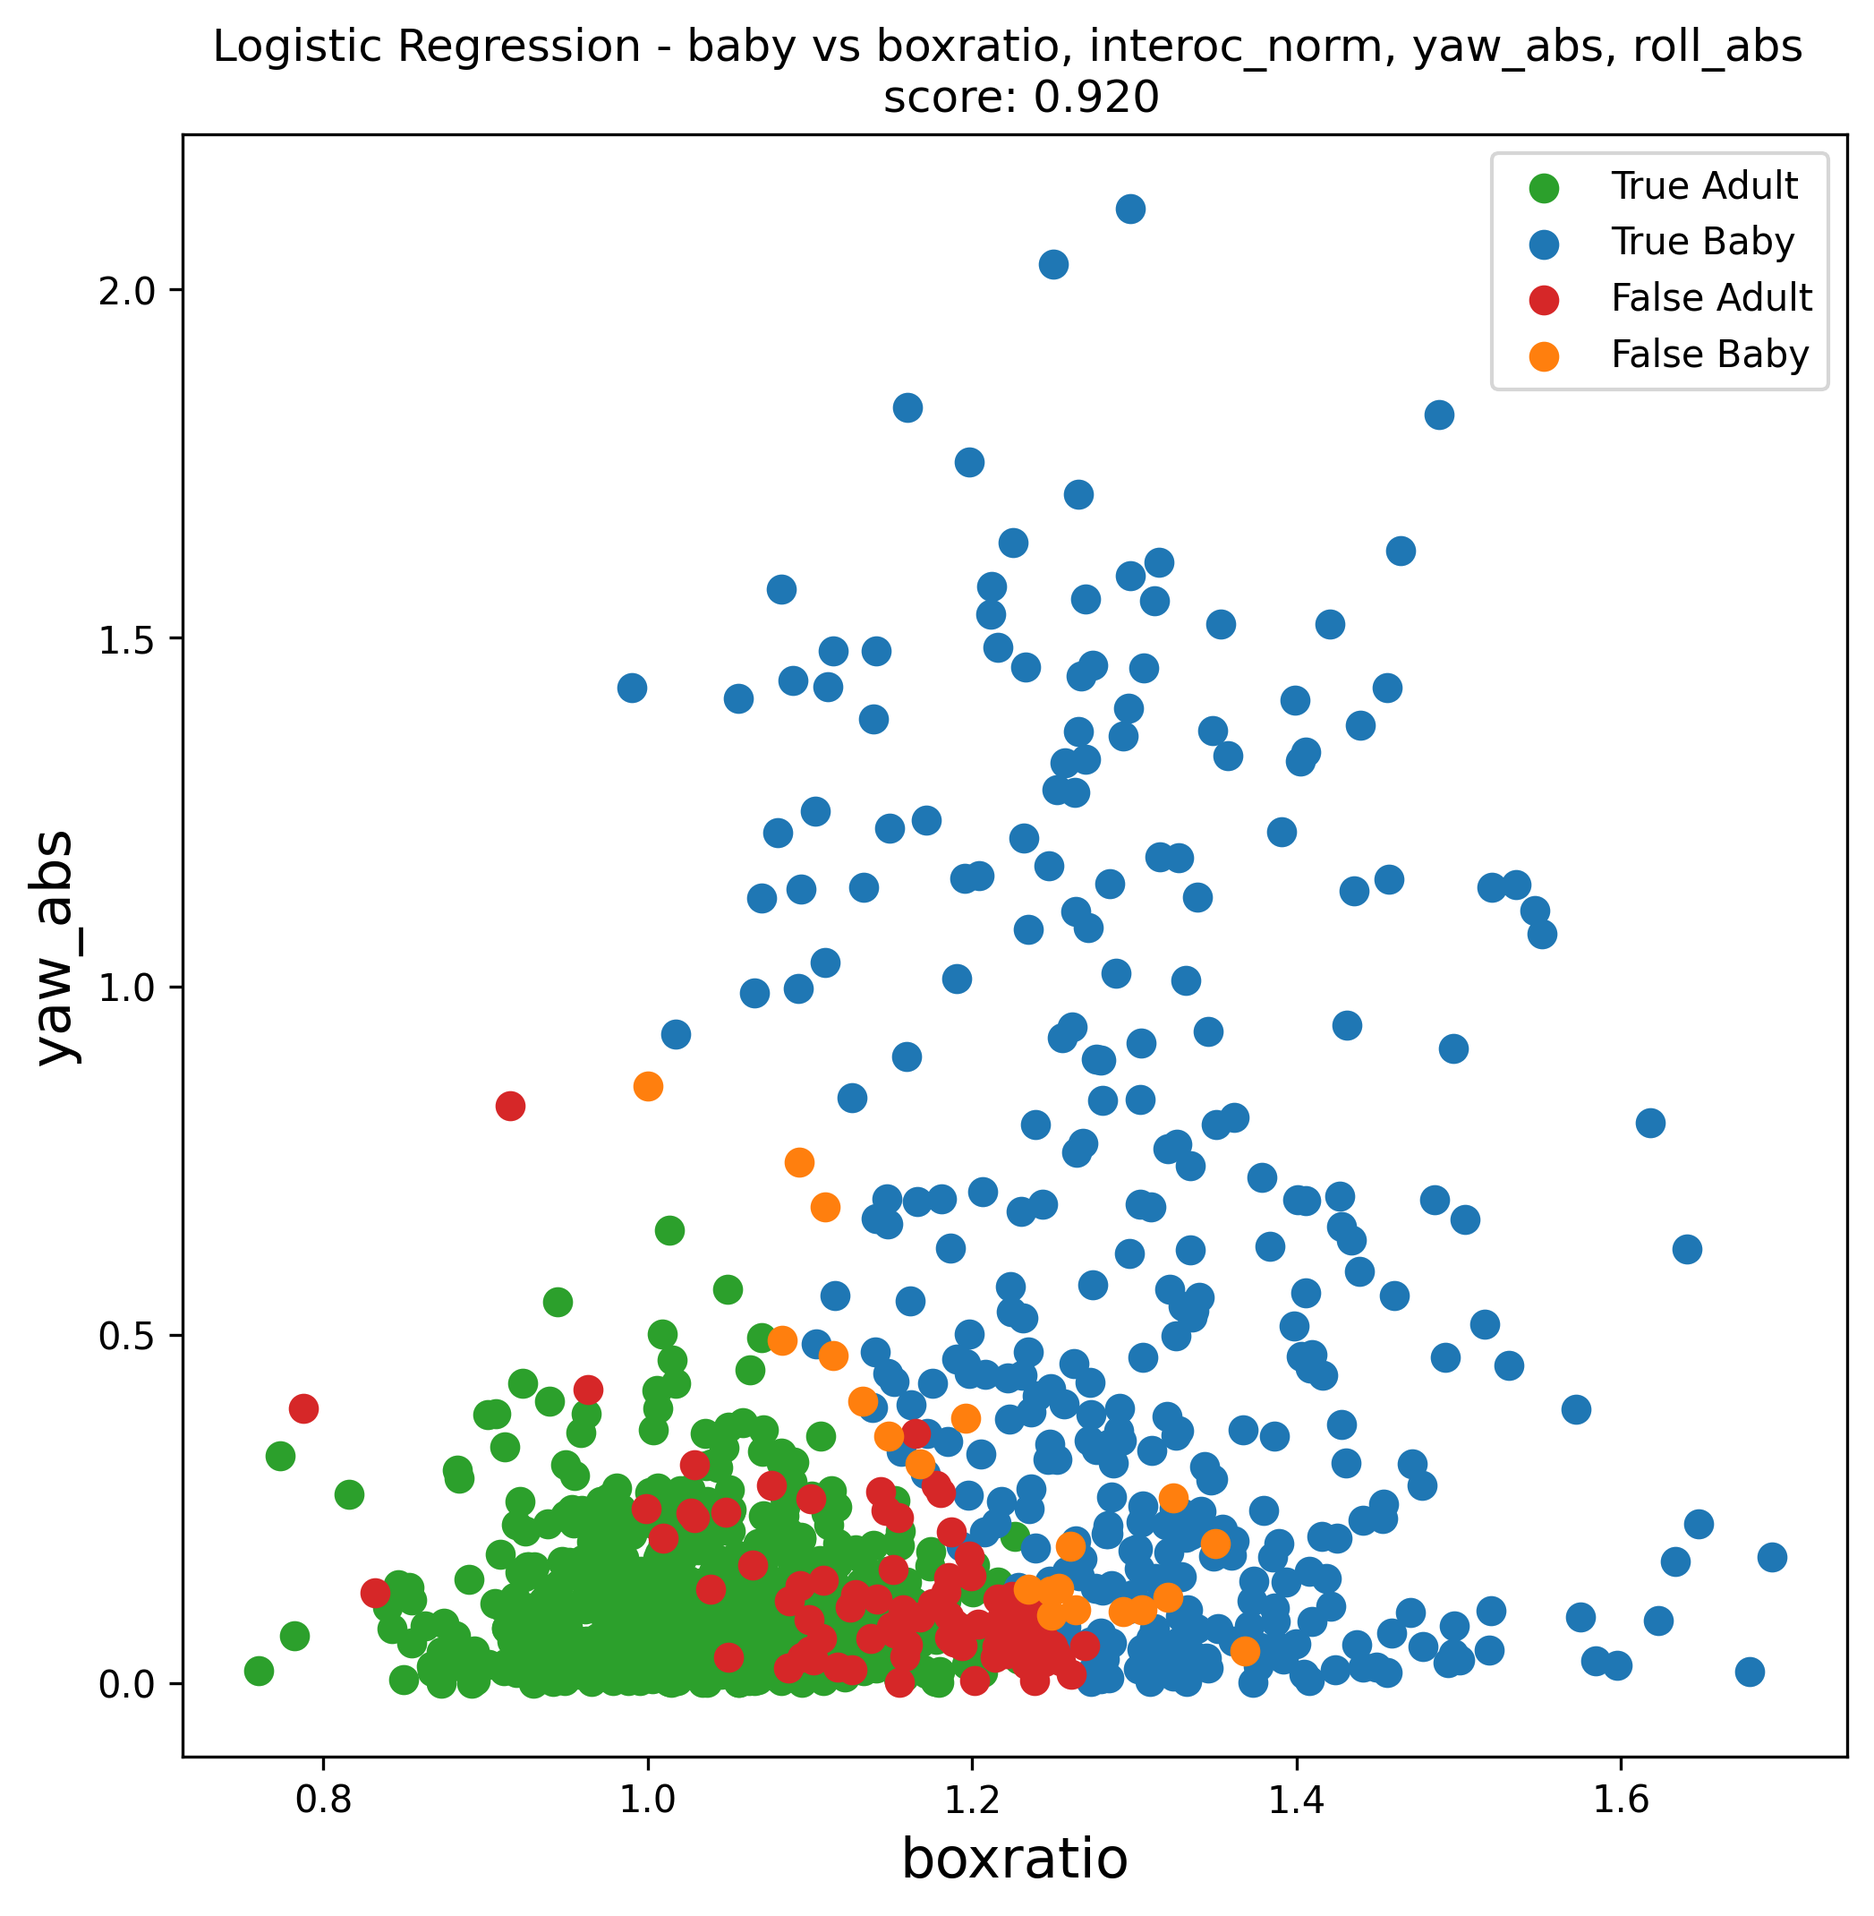
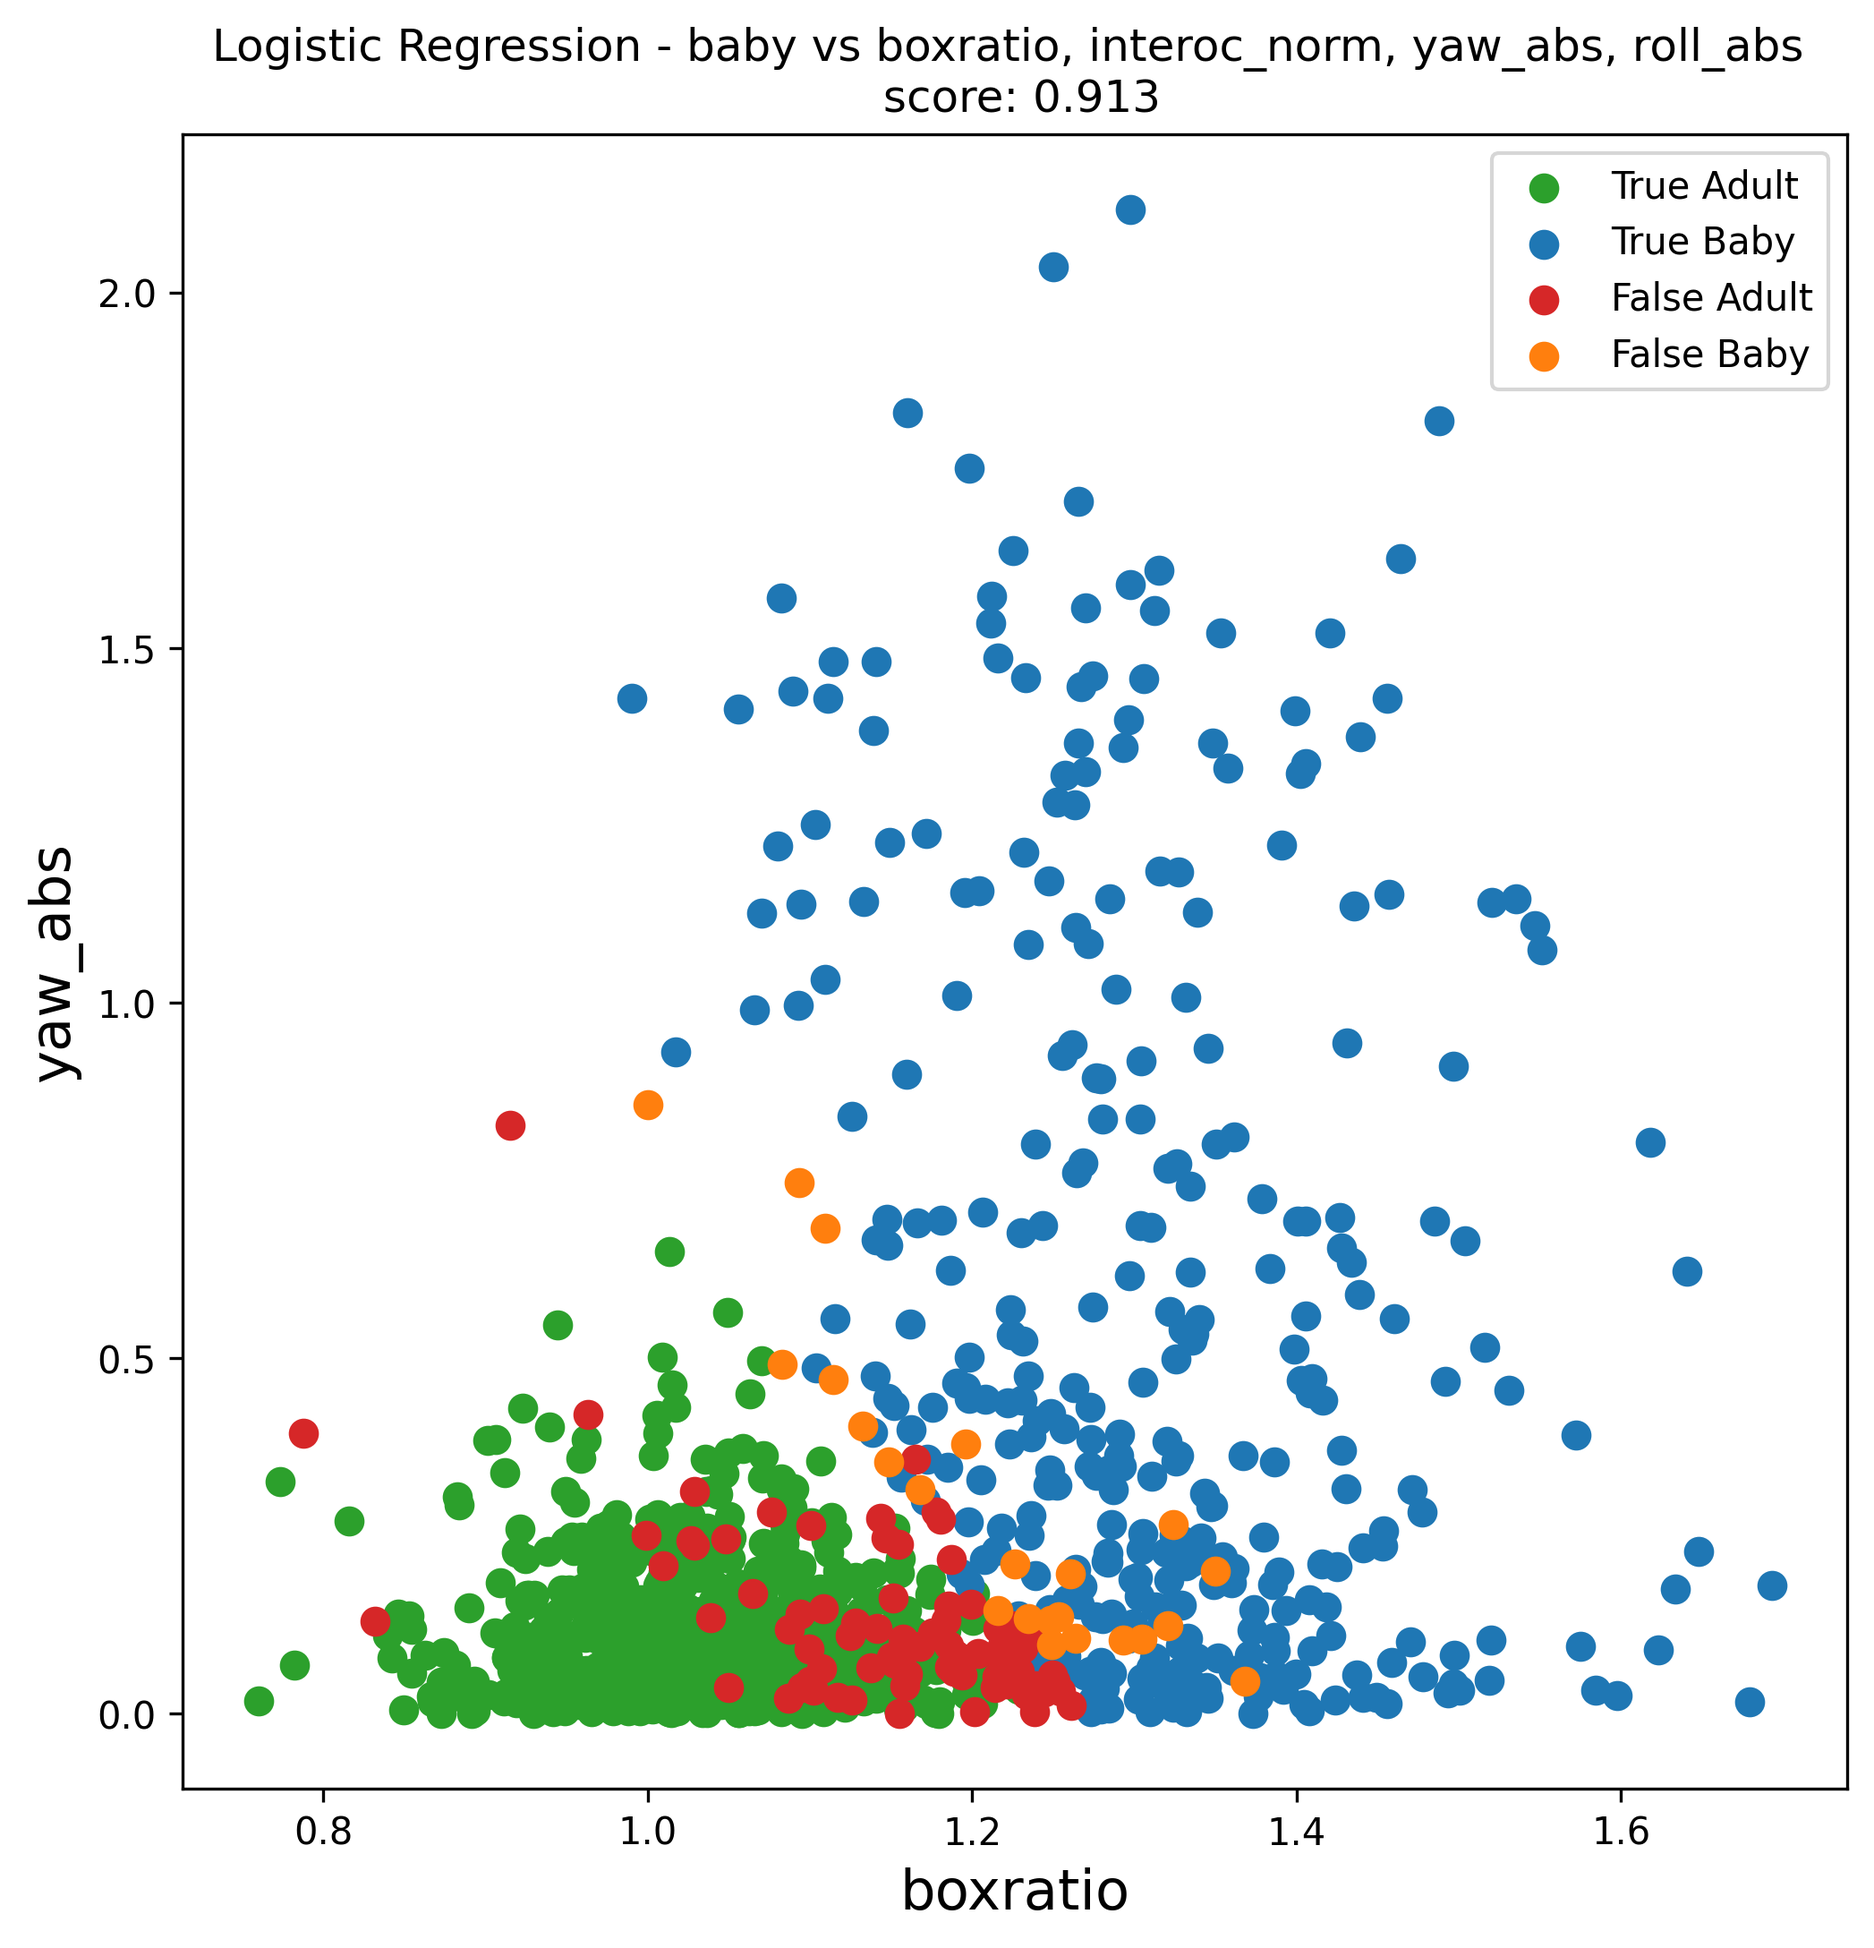
added simple test of logreg results

diff --git a/src/logreg_4_pred.py b/src/logreg_4_pred.py
@@ -3,6 +3,8 @@
 """
 
 import numpy as np
+import seaborn as sns
+import matplotlib.pyplot as plt
 from numpy.random import random_sample
 from sklearn.linear_model import LogisticRegression
 from sklearn.dummy import DummyClassifier
@@ -11,13 +13,14 @@ from sklearn.metrics import classification_report
 from sklearn.model_selection import train_test_split
 from sklearn.pipeline import Pipeline
 from sklearn.preprocessing import PolynomialFeatures
+from sklearn.metrics import confusion_matrix
 
 # project
 from util import meta_cache
 from util.plot import scatter
 from util.column_names import norm_cenrot_sym_diff, norm_cenrot_cols
 
-savefig = True
+savefig = False
 
 df = meta_cache.get_meta()
 df['roll_x_boxratio'] = df['roll_abs'] * df['boxratio']
@@ -34,7 +37,6 @@ pred_abs = [*zongyu_pred, *abs_angle_pred]
 more_pred = [*norm_cenrot_sym_diff, *norm_cenrot_cols]
 
 target = 'baby'
-
 
 def eg_logreg(df, pred, target, poly=False):
     X = df[pred]
@@ -78,25 +80,28 @@ def eg_logreg(df, pred, target, poly=False):
     print(
         f'\tlogreg score: '
         f'{score:.3f}')
-    
+
     # TODO: figure out how to print coefficients when using poly features...
     if not poly:
-        print('coefficients:')
+        print('\tcoefficients:')
         logreg = pipe.named_steps['logreg']
-        for (p, c) in zip(logreg.feature_names_in_, logreg.coef_[0]):
-            print(f'\t\t{p}: {c}')
+        # NOTE: it is not relevant to sort these here, but I couldn't help it /shrug
+        coefs = np.array([[p, c] for (p, c) in zip(logreg.feature_names_in_, logreg.coef_[0])])
+        ii = np.flip(np.argsort(coefs[:,1], axis=0))
+        for (pred, coef) in [(coefs[i,0], coefs[i,1]) for i in ii]:
+            print(f'\t\t{pred}: {coef}')
 
     # fit uniform dummy, to compare
     # NOTE: we don't really need to use train/test
     #       unless we use 'stratified' strategy
-    dummy = DummyClassifier(strategy='uniform')
+    dummy = DummyClassifier(strategy='stratified')
     dummy.fit(X_train, y_train)
     dummy_y_hat = dummy.predict(X_test)
     dummy_score = accuracy_score(y_test, dummy_y_hat)
     print(f'\tdummy score: {dummy_score:.3f}')
     
     df[f'{target}_hat'] = pipe.predict(X)
-    return df, pipe, score
+    return df, pipe, score, y_test, y_hat
 
 
 # test logistic regression with random predictor
@@ -110,7 +115,7 @@ for pp in [
     # ['roll_x_boxratio', *pred_abs],
     # ['roll_x', *pred_abs]
 ]:
-    tmp, model, score = eg_logreg(df, pp, 'baby')
+    tmp, model, score, y_test, y_hat = eg_logreg(df, pp, 'baby')
     scatter(
         f'Logistic Regression - baby vs {", ".join(pp)} \n '
             f'score: {score:.3f}',
@@ -122,3 +127,26 @@ for pp in [
         alt_name='Adult',
         savefig=savefig
     )
+
+    target_names = ['Baby', 'Adult']
+    mat = confusion_matrix(y_test, y_hat)
+    sns.heatmap(
+        mat.T,
+        square=True,
+        annot=True,
+        fmt='d',
+        cbar=False,
+        xticklabels=target_names,
+        yticklabels=target_names,
+    )
+    plt.xlabel('true label')
+    plt.ylabel('predicted label')
+    plt.title('Confusion Matrix for Validation Results')
+    plt.tight_layout()
+    if savefig:
+        plt.savefig(
+            'figs/logreg_4_pred_conf_mat.png',
+            dpi=300,
+            bbox_inches='tight',
+        )
+    plt.show()

diff --git a/logreg.md b/logreg.md
@@ -1,0 +1,32 @@
+## Logistic Regression
+
+We tried using just four likely predictors "yaw_abs", "roll_abs", "boxratio", and "interoc_norm" to predict target "baby".
+
+```
+=====================================================
+Classification Report
+=====================================================
+              precision    recall  f1-score   support
+
+        baby       0.90      0.96      0.93       170
+       adult       0.94      0.83      0.88       105
+
+    accuracy                           0.91       275
+   macro avg       0.92      0.90      0.91       275
+weighted avg       0.91      0.91      0.91       275
+
+	logreg score: 0.913
+	coefficients:
+		boxratio: 9.836838008155665
+		yaw_abs: 3.2714741040479107
+		interoc_norm: 1.4026847522362897
+		roll_abs: 0.7687748782704812
+	dummy score: 0.484
+```
+
+We plotted these results on a scatter of 'boxratio' vs 'yaw_abs' and a confusion matrix of the (small) validation set:
+
+<img src="figs/scatter_boxratio_vs_yaw.png" width=600>
+<img src="figs/logreg_4_pred_conf_mat.png" width=600>
+
+This is a rough first test using small random validation set, but it indicates that 'boxratio' is likely useful. We imagine 'yaw_abs' is _circumstantially_ useful, since babies are generally photographed from more extreme angles, if only because they have a hard time supporting their relatively large heads.
